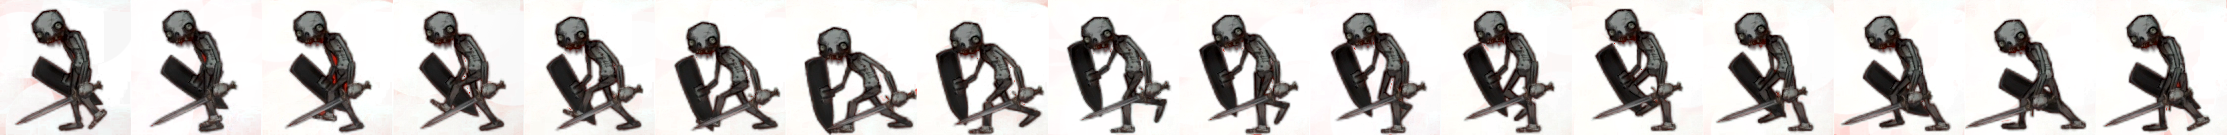
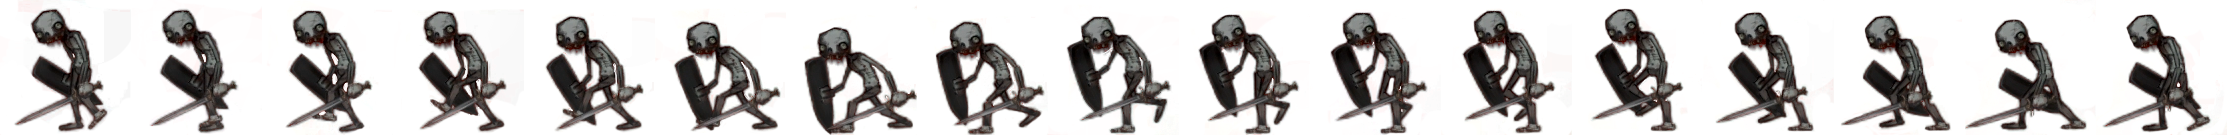
Correcciones en las animaciones

diff --git a/TP4/EntregaFinal/js/class/Player.js b/TP4/EntregaFinal/js/class/Player.js
@@ -64,6 +64,7 @@ class Player extends Entity{
       }
     }
     if(this.attacking){
+      if(this.scale < 0) this.setOffset(135,0);
       this.setSize(304, 146, false);
       this.setAnimation("player_attack", 24, .75, 1);
     }
@@ -71,6 +72,7 @@ class Player extends Entity{
 
   move(){
     if(this.velocity.x == 0) {
+      this.setOffset(0,0);
       this.setSize(135, 137, false);
       this.setAnimation("player_idle", 27, 2);
     }
@@ -90,6 +92,7 @@ class Player extends Entity{
   }
 
   jump(){
+    if((this.jumping || this.falling) && this.scale < 0) this.setOffset(60,0);
     if(this.jumping){
       this.velocity.y = -6;
       this.setSize(176, 137, false);

diff --git a/TP4/EntregaFinal/js/class/Game.js b/TP4/EntregaFinal/js/class/Game.js
@@ -88,10 +88,6 @@ class Game {
     }
   }
 
-  areColliding(a, b){
-     return !(((a.y + a.height) < (b.y)) || (a.y > (b.y + b.height)) || ((a.x + a.width) < b.x) || (a.x > (b.x + b.width)));
-  }
-
   findEnemy(player){
     for (var i = 0; i < this.enemies.length; i++) {
       let distance = Math.sqrt(Math.pow(this.enemies[i].x - player.x, 2) + Math.pow(this.enemies[i].y - player.y, 2));

diff --git a/TP4/EntregaFinal/js/class/Enemy.js b/TP4/EntregaFinal/js/class/Enemy.js
@@ -48,7 +48,8 @@ class Enemy extends Entity {
   attack(){
     this.setSize(235, 162, false);
     this.setAnimation("enemy_0_attack", 21, 0.9);
-    this.setOffset(0, -30);
+    if(this.scale > 0) this.setOffset(-100, -30);
+    else this.setOffset(0, -30);
     this.attacking = true;
     this.velocity.x = 0;
     Game.player.takeDamage(5 * this.multiplier);

diff --git a/TP4/EntregaFinal/js/class/WorldGeneration.js b/TP4/EntregaFinal/js/class/WorldGeneration.js
@@ -27,8 +27,8 @@ class WorldGeneration {
   }
 
   spawnRandom(element){
-    if(Math.random() * 100 <= 70) this.spawnEnemy(element);
-    if(Math.random() * 100 <= 70) this.spawnConsumable(element);
+    if(Math.random() * 100 <= 75) this.spawnEnemy(element);
+    if(Math.random() * 100 <= 75) this.spawnConsumable(element);
   }
 
   spawnConsumable(platform){
